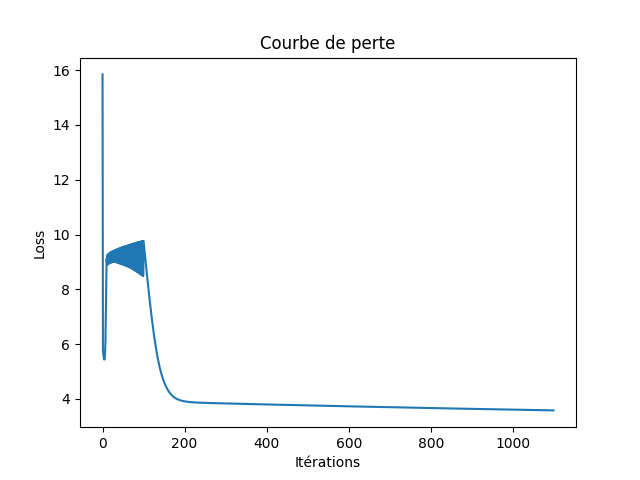
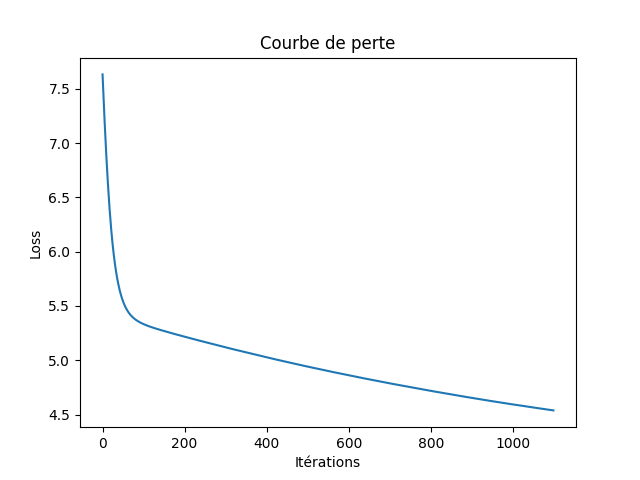
propreté et ajustement model uniperceptron

diff --git a/Training/first_proto.py b/Training/first_proto.py
@@ -7,16 +7,23 @@ import pickle
 
 
 class Neurone: 
+
     # Sert a l'initialisation du vecteur des paramétre sur les entrée
     # et la constante
-    def __init__(self,X=None,y=None, learning_rate=0.1, nb_iter=100):
+    def __init__(self, X=None, y=None, learning_rate=0.1, nb_iter=100):
+
+        #Paramètre definisant mon neurone
         self.W = None
         self.b = None
         self.L = []
+        self.acc = []
+
+        #si on fournit des paramètre on fait automatiquement un entrainement dessus
         if X is not None and y is not None:
             self.W = np.random.randn(X.shape[1], 1)
             self.b = np.random.randn(1)
             self.train(X, y, learning_rate, nb_iter)
+
 
     # definit le modèle donc la fonction linéaire
     # puis transforme la sortie linéaire en un pourcentage
@@ -25,10 +32,12 @@ class Neurone:
         A = 1/(1+np.exp(-Z)) 
         return A
 
+
     #On definit la fonction de coût donc log loss ici
     def log_loss(self,A,y):
         epsilon = 1e-15
         return 1/len(y) * np.sum(-y*np.log(A+epsilon) - (1-y)*np.log(1-A+epsilon))
+
 
     #On definit nos gradient
     def gradients(self,A,X,y):
@@ -36,107 +45,132 @@ class Neurone:
         db = 1/len(y) * np.sum(A-y)
         return dW,db
 
+
     #On definit la decente de gradient pour ajuster les paramètre
     def update(self,dW, db, learning_rate):
         self.W = self.W-learning_rate*dW
         self.b = self.b-learning_rate*db
 
+
     def train(self,X, y,learning_rate=0.1, nb_iter=100):
         #boucle d'update
         for _ in range(nb_iter):
+            #activation
             A = self.model(X)
+
+            #Calcule coût
             self.L.append(self.log_loss(A, y))
+
+            #Calcul accuracy
+            pred = self.predict(X)
+            self.acc.append(accuracy_score(y,pred))
+
+            #Mise a jour
             dW,db = self.gradients(A,X,y)
             self.update(dW, db, learning_rate)
     
+
+    #Calcul des prediction pour un set de donné
     def predict(self, X):
         A = self.model(X)
         return A >= 0.5
 
+
+    #sauvegarde les parra dans un fichier
     def save(self, filename):
         with open(filename, 'wb') as f:
-            pickle.dump({'W': self.W, 'b': self.b, 'L': self.L}, f)
+            pickle.dump({'W': self.W, 'b': self.b, 'L': self.L, 'acc':self.acc}, f)
         print(f"Modèle sauvegardé dans {filename}")
 
-    # Charger les paramètres (poids, biais et historique de perte)
+    # Charger les paramètres (poids, biais et historique de perte, historique accuracy)
     def load(self, filename):
         with open(filename, 'rb') as f:
             data = pickle.load(f)
             self.W = data['W']
             self.b = data['b']
             self.L = data['L']
+            self.acc = data['acc']
         print(f"Modèle chargé depuis {filename}")
 
 
+def main(bool_c, bool_t):
+
+    def load_data():
+        train_dataset = h5py.File('Training/datasets/trainset.hdf5', "r")
+        X_train = np.array(train_dataset["X_train"][:]) # your train set features
+        y_train = np.array(train_dataset["Y_train"][:]) # your train set labels
+
+        test_dataset = h5py.File('Training/datasets/testset.hdf5', "r")
+        X_test = np.array(test_dataset["X_test"][:]) # your test set features
+        y_test = np.array(test_dataset["Y_test"][:]) # your test set labels
+        
+        return X_train, y_train, X_test, y_test
+
+    X_train, y_train, X_test, y_test = load_data()
+
+    X_train = X_train.reshape(X_train.shape[0], -1)
+    X_test = X_test.reshape(X_test.shape[0], -1)
+    # Reshape des labels
+    y_train = y_train.reshape(-1, 1)
+    y_test = y_test.reshape(-1, 1)
+
+    """
+    # Vérification des dimensions
+    print("X_train shape:", X_train.shape)
+    print("y_train shape:", y_train.shape)
+    print("X_test shape:", X_test.shape)
+    print("y_test shape:", y_test.shape)
+    #dimension obtenu
+    X_train shape: (1000, 4096)
+    y_train shape: (1000, 1)
+    X_test shape: (200, 4096)
+    y_test shape: (200, 1)
+    """
 
 
-def load_data():
-    train_dataset = h5py.File('Training/datasets/trainset.hdf5', "r")
-    X_train = np.array(train_dataset["X_train"][:]) # your train set features
-    y_train = np.array(train_dataset["Y_train"][:]) # your train set labels
-
-    test_dataset = h5py.File('Training/datasets/testset.hdf5', "r")
-    X_test = np.array(test_dataset["X_test"][:]) # your test set features
-    y_test = np.array(test_dataset["Y_test"][:]) # your test set labels
-    
-    return X_train, y_train, X_test, y_test
-
-def normalized(X):
-    return X/255
-
-X_train, y_train, X_test, y_test = load_data()
-X_train=normalized(X_train)
-X_test=normalized(X_test)
-
-"""
-# Vérification des dimensions
-print("X_train shape:", X_train.shape)
-print("y_train shape:", y_train.shape)
-print("X_test shape:", X_test.shape)
-print("y_test shape:", y_test.shape)
-"""
-X_train = X_train.reshape(X_train.shape[0], -1)
-X_test = X_test.reshape(X_test.shape[0], -1)
-# Reshape des labels
-y_train = y_train.reshape(-1, 1)
-y_test = y_test.reshape(-1, 1)
-
-"""
-# Vérification des dimensions
-print("X_train shape:", X_train.shape)
-print("y_train shape:", y_train.shape)
-print("X_test shape:", X_test.shape)
-print("y_test shape:", y_test.shape)
-X_train shape: (1000, 4096)
-y_train shape: (1000, 1)
-X_test shape: (200, 4096)
-y_test shape: (200, 1)
-"""
+    X_train_r=X_train/X_train.max()
+    X_test_r=X_test/X_train.max()
 
 
-chien_chat = None
-path = "Training/saves/save_chien_chat.pkl"
-#Nouveau neurone
-chien_chat = Neurone(X_train, y_train)
-chien_chat.save(path)
+    path = "Training/saves/save_chien_chat.pkl"
 
-#Neurone existant
-if chien_chat == None:
-    chien_chat = Neurone()
-    chien_chat.load(path)
-#celon si on veut entrainer ou non
-chien_chat.train(X_train, y_train, 1e-3, 1000)
-chien_chat.save(path)
+    #Nouveau neurone
+    if bool_c == 0:
+        chien_chat = Neurone(X_train_r, y_train, 1e-3)
+        chien_chat.save(path)
+        
+    #Neurone existant
+    else:
+            chien_chat = Neurone()
+            chien_chat.load(path)
 
-pred_chien_chat = chien_chat.predict(X_train)
-print(accuracy_score(y_train, pred_chien_chat))
+    #celon si on veut entrainer ou non
+    if bool_t == 1:
+        chien_chat.train(X_train_r, y_train, 1e-3, 1000)
+        chien_chat.save(path)
 
-plt.plot(chien_chat.L)
-plt.title("Courbe de perte")
-plt.xlabel("Itérations")
-plt.ylabel("Loss")
-plt.savefig("Training/saves/loss_curve.png")  # Sauvegarde dans un fichier
-print("Courbe de perte sauvegardée dans Training/saves/loss_curve.png")
 
-pred_chien_chat_test = chien_chat.predict(X_test)
-print(accuracy_score(y_test, pred_chien_chat_test))
+    #affichage et calcule d'efficacité sur mes test
+    pred_chien_chat = chien_chat.predict(X_train_r)
+    print(accuracy_score(y_train, pred_chien_chat))
+    pred_chien_chat_test = chien_chat.predict(X_test_r)
+    print(accuracy_score(y_test, pred_chien_chat_test))
+
+
+    #création et stockage des courbes
+    plt.plot(chien_chat.L)
+    plt.title("Courbe de perte")
+    plt.xlabel("Itérations")
+    plt.ylabel("Loss")
+    plt.savefig("Training/saves/loss_curve.png")  # Sauvegarde dans un fichier
+    print("Courbe de perte sauvegardée dans Training/saves/loss_curve.png")
+
+    plt.plot(chien_chat.acc)
+    plt.title("Courbe d'accuracy")
+    plt.xlabel("Itérations")
+    plt.ylabel("Acc")
+    plt.savefig("Training/saves/acc_curve.png")  # Sauvegarde dans un fichier
+    print("Courbe d'accuracy sauvegardée dans Training/saves/acc_curve.png")
+
+
+main(0, 1)
